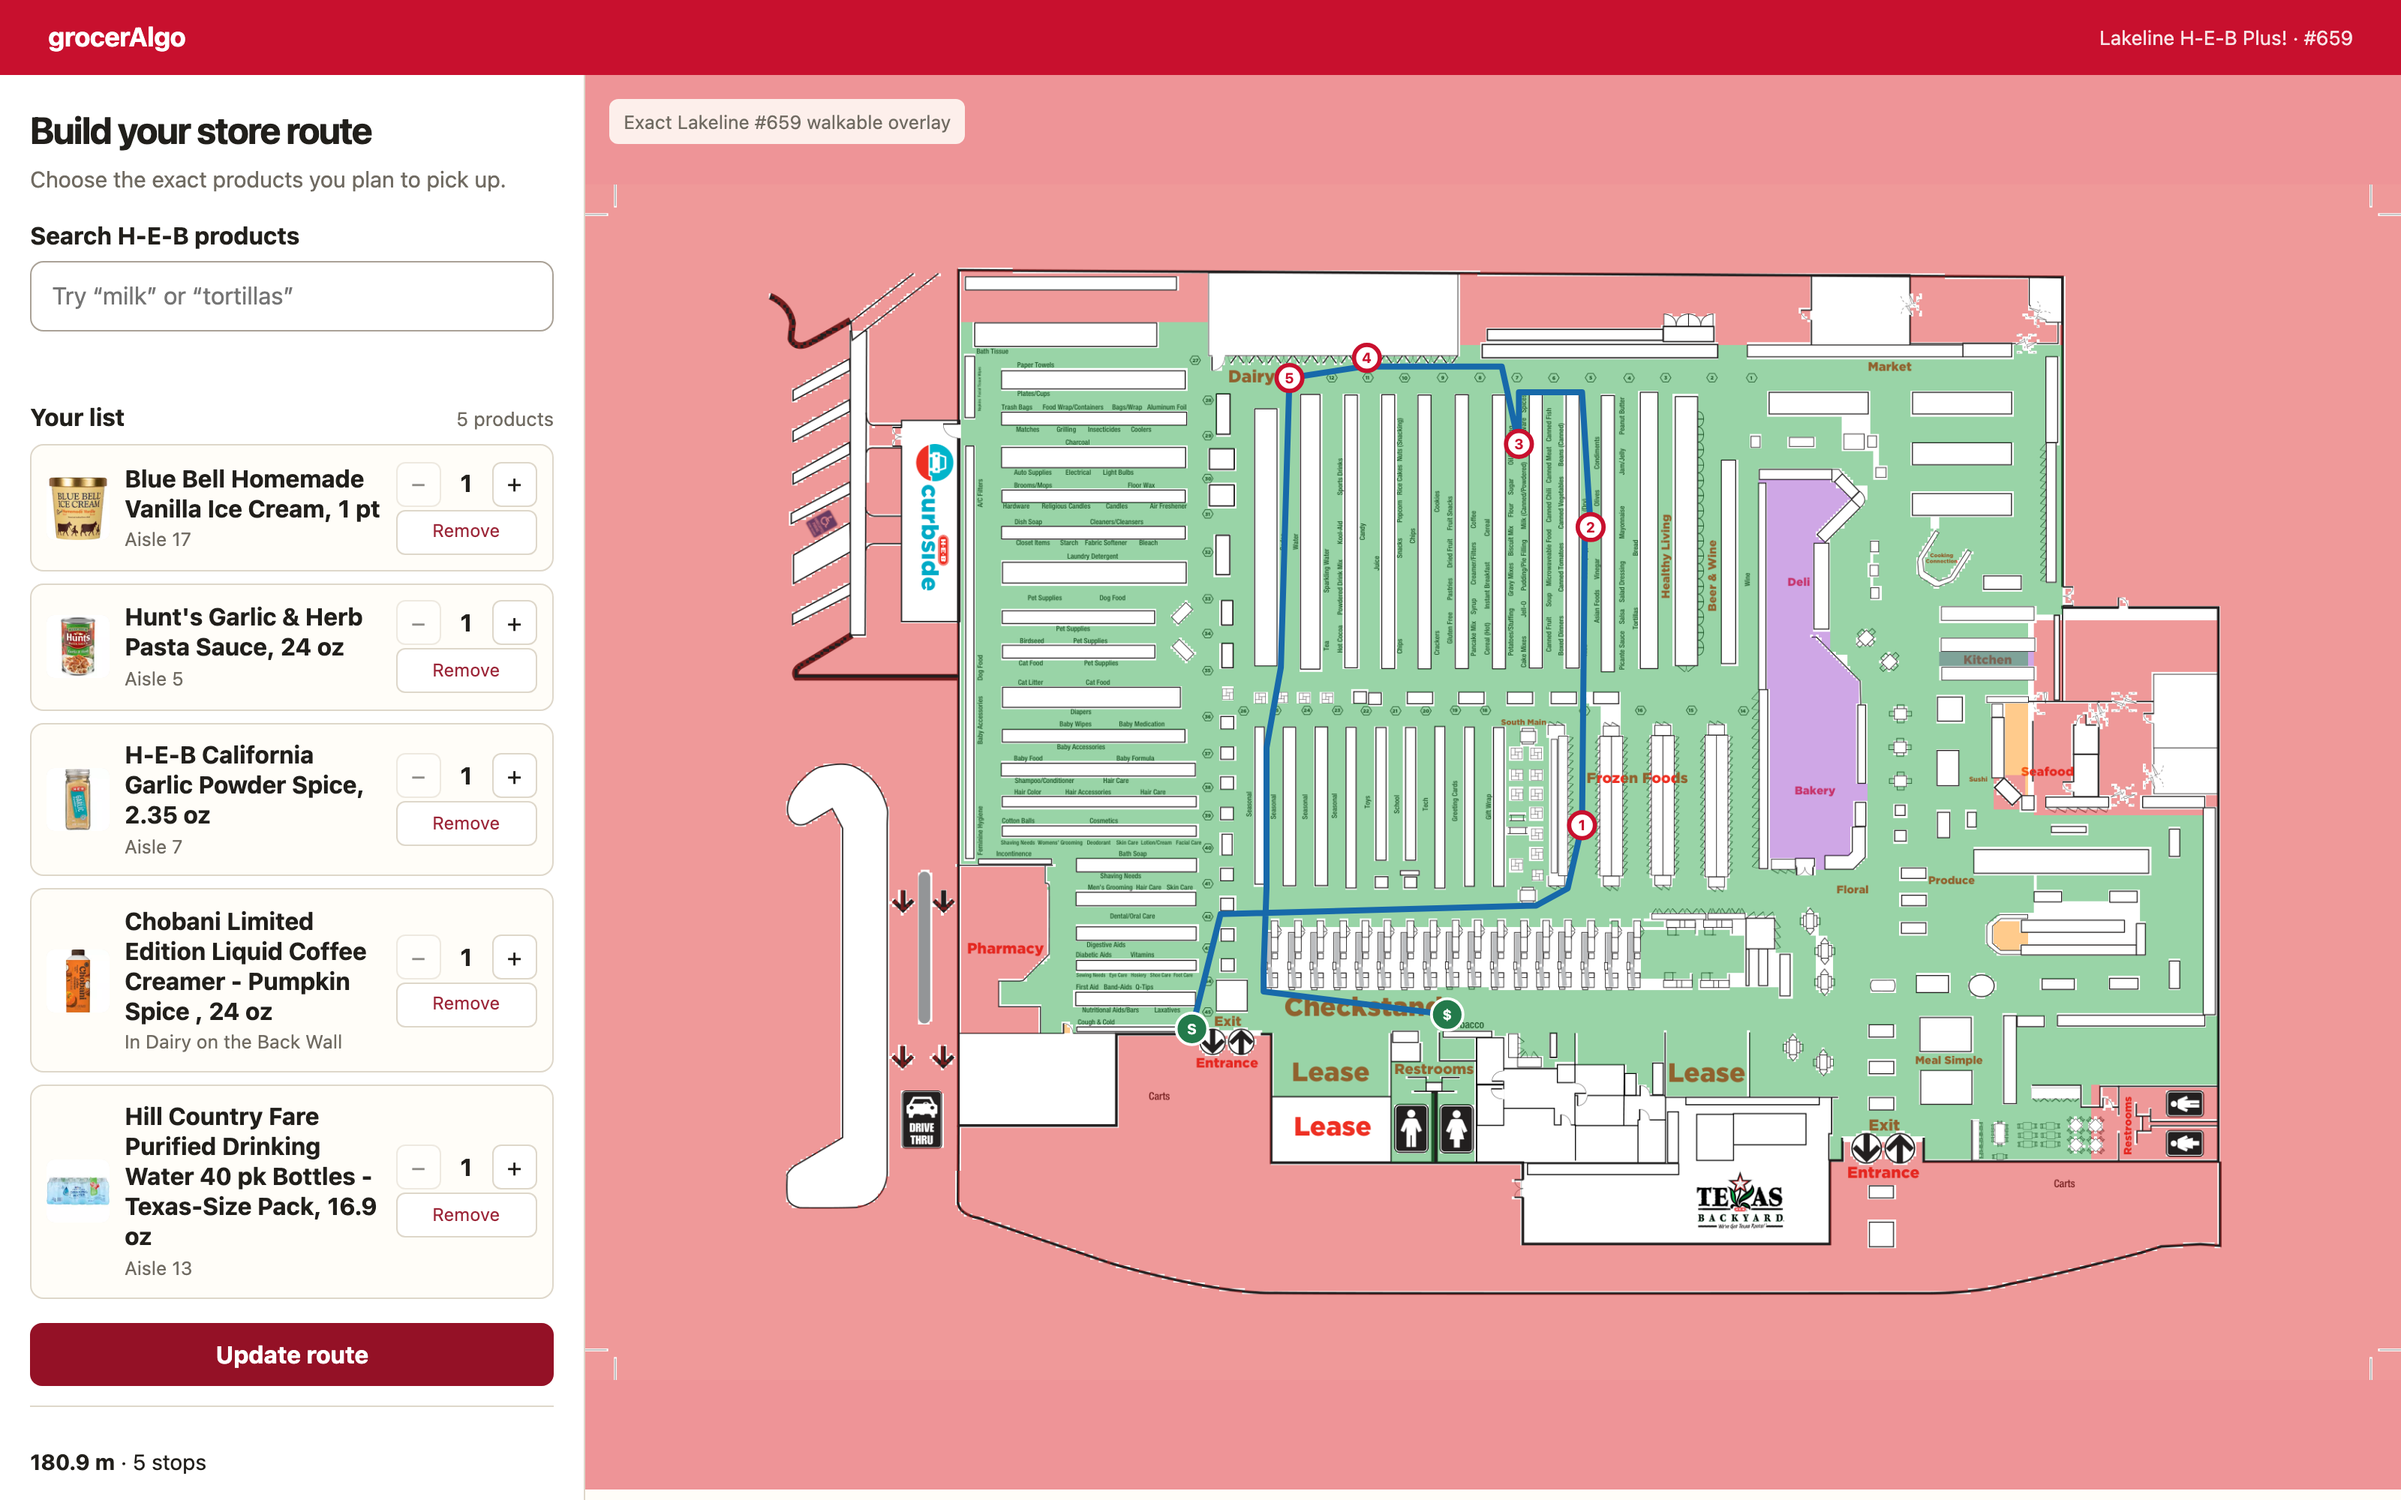
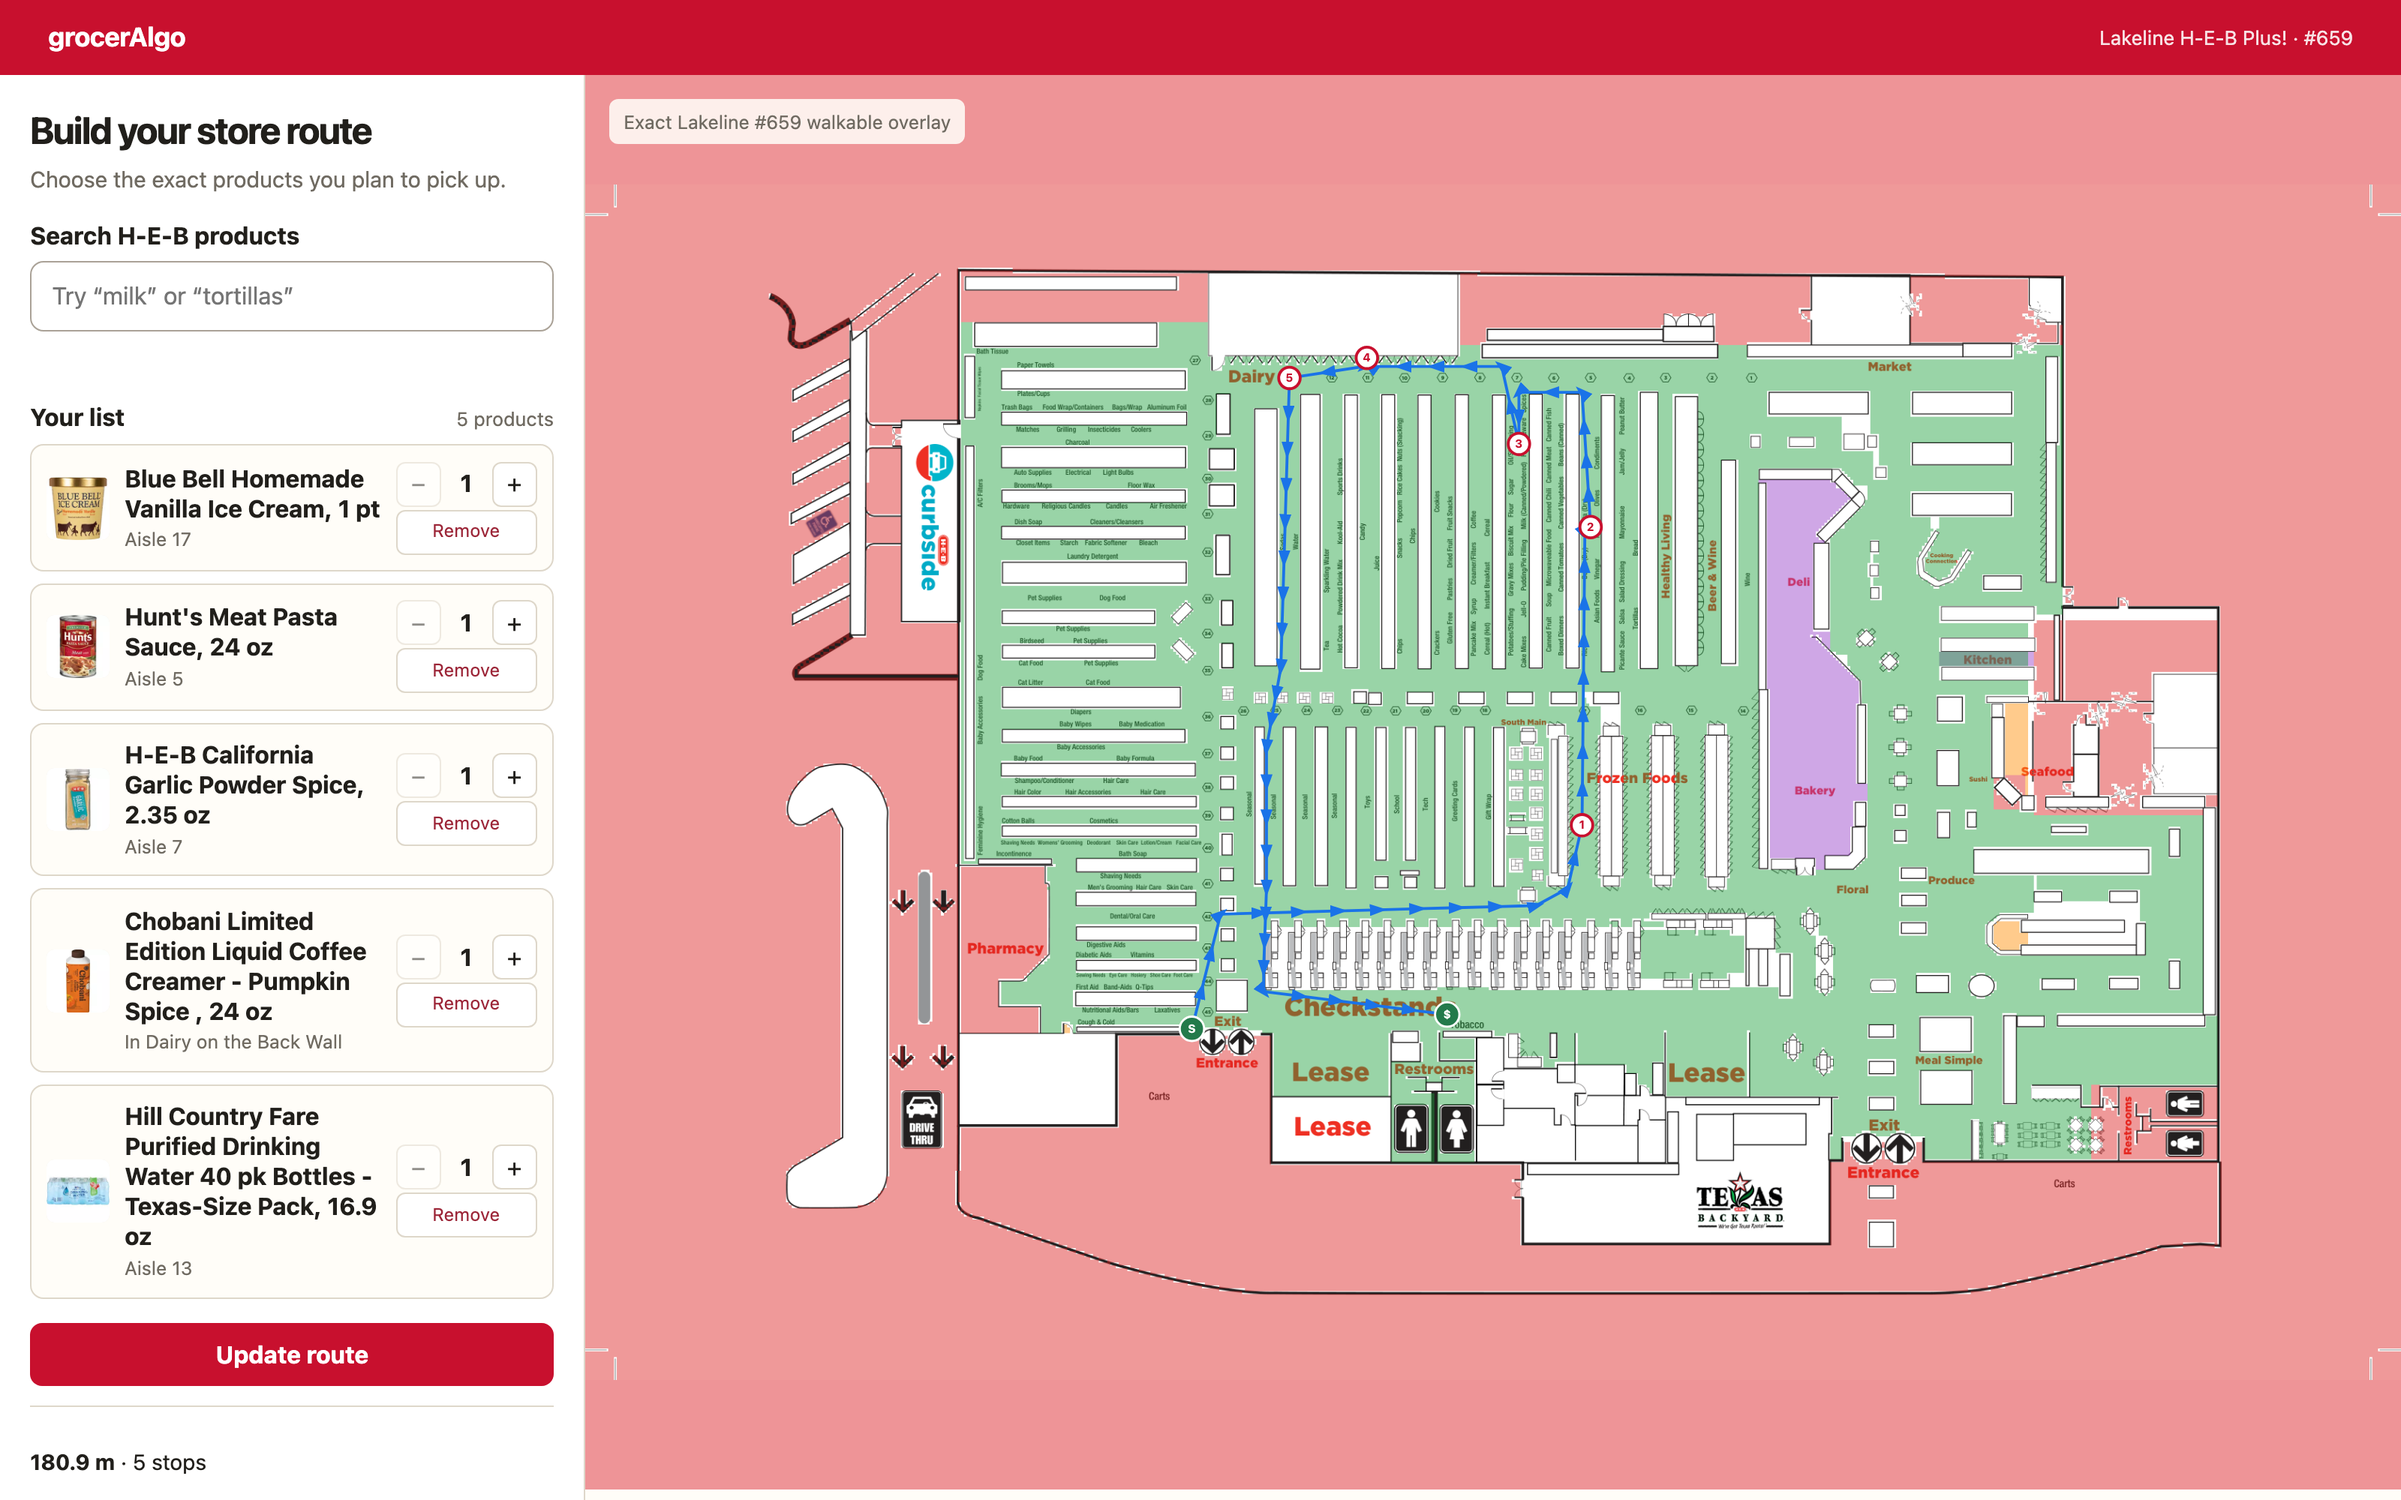
feat: draw the web route the way the QA render does
The site drew a thick, directionless polyline while route_demo.py
--directional already had the look we wanted: a thin line with travel
arrows along it. Match it — 2pt stroke, a marker-mid arrowhead, and
badges scaled down to the QA render's proportions.

marker-mid only fires on vertices, so the path is split into ~28pt
steps before drawing: same arrow cadence as the Pillow version.

README hero reshot against the live catalog, same five products.

diff --git a/static/index.html b/static/index.html
@@ -15,7 +15,7 @@
       --cream: #f4efe3;
       --line: #ded7ca;
       --green: #237a4b;
-      --blue: #1769aa;
+      --blue: #1a73e8;
       font: 16px/1.4 Inter, ui-sans-serif, system-ui, -apple-system, sans-serif;
     }
     * { box-sizing: border-box; }
@@ -136,18 +136,20 @@
     }
     #floor-map { object-fit: contain; }
     #map { display: block; }
+    /* geometry in page points, same proportions as data/659/qa/route_directional.png */
     .route {
-      fill: none; stroke: var(--blue); stroke-width: 4; stroke-linecap: round;
-      stroke-linejoin: round; vector-effect: non-scaling-stroke;
+      fill: none; stroke: var(--blue); stroke-width: 2; stroke-linecap: round;
+      stroke-linejoin: round; marker-mid: url(#arrow);
     }
-    .stop circle { fill: var(--red); stroke: #fff; stroke-width: 2; }
+    #arrow path { fill: var(--blue); }
+    .stop circle { fill: var(--red); stroke: #fff; stroke-width: 1.5; }
     .stop text, .term text {
-      fill: #fff; font: bold 10px ui-sans-serif, system-ui;
+      fill: #fff; font: bold 8px ui-sans-serif, system-ui;
       text-anchor: middle; dominant-baseline: central;
     }
-    .stop.approx circle { fill: #fff; stroke: var(--red); stroke-width: 3; }
+    .stop.approx circle { fill: #fff; stroke: var(--red); stroke-width: 2; }
     .stop.approx text { fill: var(--red); }
-    .term circle { fill: var(--green); stroke: #fff; stroke-width: 2; }
+    .term circle { fill: var(--green); stroke: #fff; stroke-width: 1.5; }
     .visually-hidden {
       position: absolute; width: 1px; height: 1px; padding: 0; margin: -1px;
       overflow: hidden; clip: rect(0, 0, 0, 0); white-space: nowrap; border: 0;
@@ -207,7 +209,15 @@
       <div id="map-title">Exact Lakeline #659 walkable overlay</div>
       <img id="floor-map" src="/api/walkability.png"
            alt="Lakeline H-E-B walkable floor map">
-      <svg id="map" role="img" aria-label="Store floor map"></svg>
+      <svg id="map" role="img" aria-label="Store floor map">
+        <defs>
+          <marker id="arrow" markerUnits="userSpaceOnUse" orient="auto"
+                  viewBox="0 0 12 8.4" markerWidth="12" markerHeight="8.4"
+                  refX="6" refY="4.2">
+            <path d="M0,0 L12,4.2 L0,8.4 Z"></path>
+          </marker>
+        </defs>
+      </svg>
     </section>
   </main>
 
@@ -558,16 +568,31 @@
       text.textContent = label;
     }
 
+    // marker-mid draws one arrowhead per interior vertex, so split long legs
+    // into ~28pt steps — the arrow cadence of the QA render.
+    function arrowPoints(path) {
+      const dense = [path[0]];
+      for (let i = 1; i < path.length; i++) {
+        const [ax, ay] = path[i - 1];
+        const [bx, by] = path[i];
+        const steps = Math.max(1, Math.ceil(Math.hypot(bx - ax, by - ay) / 28));
+        for (let k = 1; k <= steps; k++) {
+          dense.push([ax + (bx - ax) * k / steps, ay + (by - ay) * k / steps]);
+        }
+      }
+      return dense;
+    }
+
     function renderRoute(body) {
       clearRoute();
       svgElement('polyline', {
-        points: body.path.map(point => point.join(',')).join(' '),
+        points: arrowPoints(body.path).map(point => point.join(',')).join(' '),
         class: 'route',
       });
-      badge(body.path[0][0], body.path[0][1], 'S', 'term', 11);
-      badge(body.path.at(-1)[0], body.path.at(-1)[1], '$', 'term', 11);
+      badge(body.path[0][0], body.path[0][1], 'S', 'term', 8.5);
+      badge(body.path.at(-1)[0], body.path.at(-1)[1], '$', 'term', 8.5);
       body.stops.forEach(stop =>
-        badge(stop.x, stop.y, stop.n, `stop${stop.approx ? ' approx' : ''}`, 9));
+        badge(stop.x, stop.y, stop.n, `stop${stop.approx ? ' approx' : ''}`, 7.5));
 
       const headline = document.createElement('p');
       headline.append(
